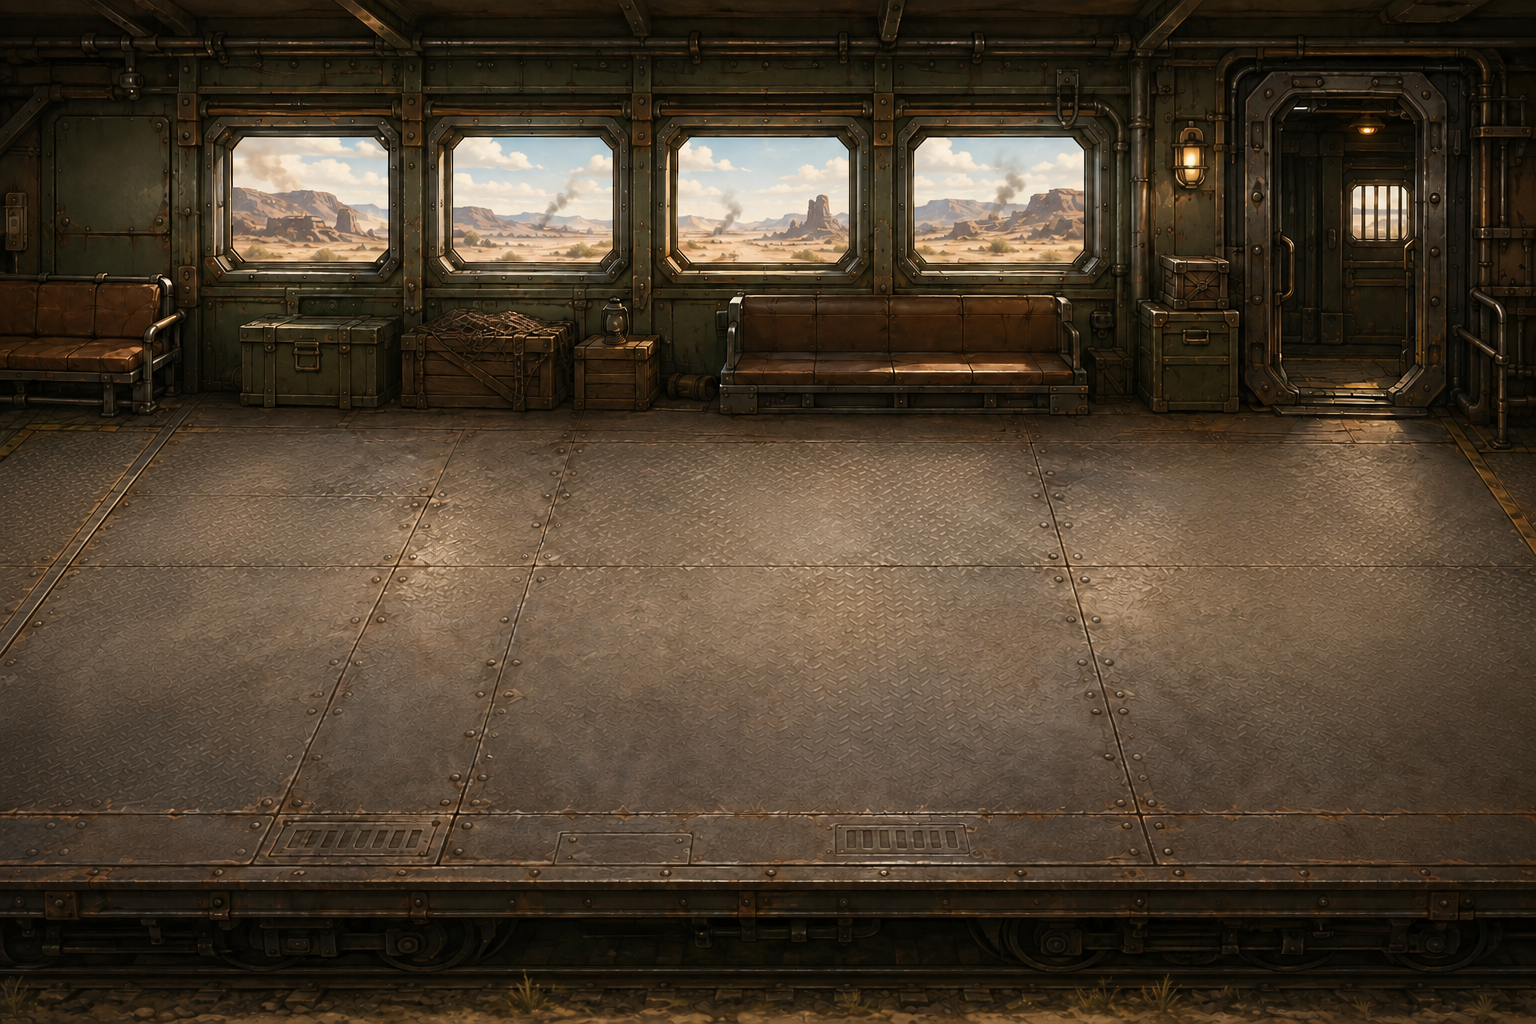
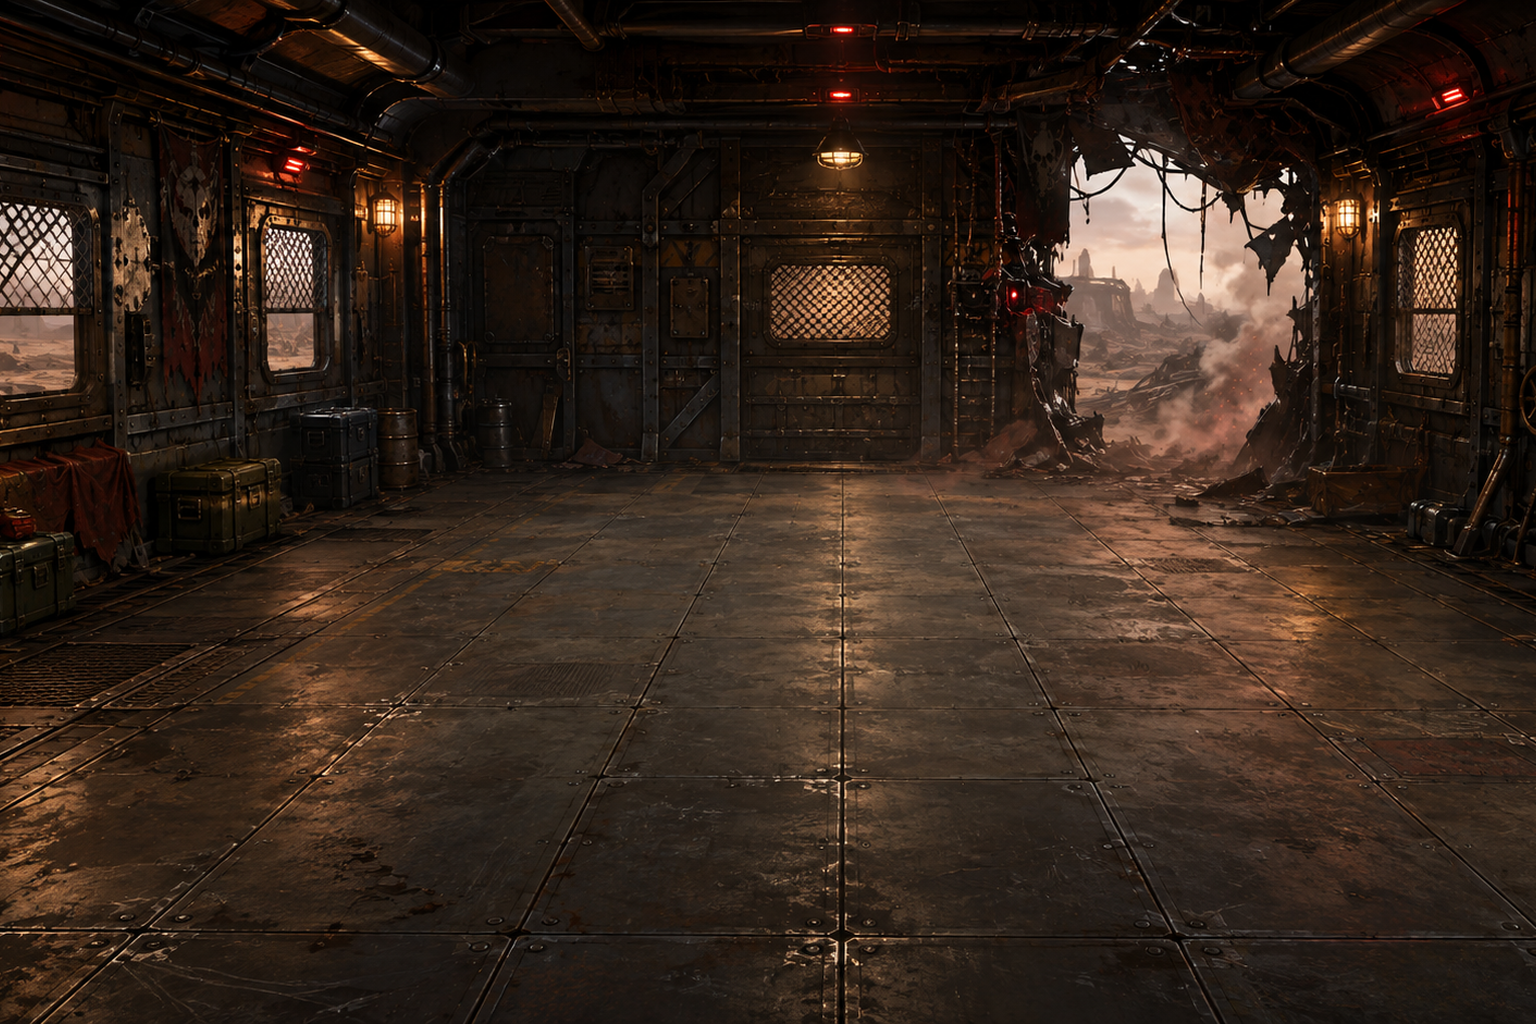
fix(unity): replace initial combat interior background

diff --git a/unity-project/Assets/_LASTRAIL/Tests/EditMode/LaunchScreenPrefabBindingTests.cs b/unity-project/Assets/_LASTRAIL/Tests/EditMode/LaunchScreenPrefabBindingTests.cs
@@ -1,6 +1,7 @@
 #if UNITY_5_3_OR_NEWER
 using System.IO;
 using System.Collections.Generic;
+using System.Security.Cryptography;
 using NUnit.Framework;
 using UnityEditor;
 using UnityEngine;
@@ -18,6 +19,7 @@ namespace LastRail.Tests.EditMode
     {
         private const string ScreenPrefabRoot = "Assets/_LASTRAIL/Prefabs/Screens/";
         private const string CommonSkinRoot = "Assets/_LASTRAIL/UI/Common/Skins";
[1 lines of base64/hex data omitted]
 
         [Test]
         public void LaunchScreenPrefabs_ExistForSevenPlayerFacingScreens()
@@ -242,6 +244,29 @@ namespace LastRail.Tests.EditMode
                 "playerSquadSlots",
                 "invadingEnemySlots",
                 "engagementZoneRoot");
+        }
+
+        [Test]
+        public void CombatHudInitialSquadInterior_DoesNotUseFloatingGroundBackground()
+        {
+            var assetPath = Path.Combine(
+                Directory.GetCurrentDirectory(),
+                "Assets",
+                "_LASTRAIL",
+                "UI",
+                "CombatResources",
+                "Interiors",
+                "combat_train_interior_initial_squad.png");
+
+            Assert.That(File.Exists(assetPath), Is.True, assetPath);
+            using var stream = File.OpenRead(assetPath);
+            using var sha256 = SHA256.Create();
+            var hash = System.BitConverter.ToString(sha256.ComputeHash(stream)).Replace("-", string.Empty);
+
+            Assert.That(
+                hash,
+                Is.Not.EqualTo(FloatingInitialSquadInteriorHash),
+                "Initial squad combat interior should use the grounded-floor background, not the old image that made the upper-left operator look airborne.");
         }
 
         private static void AssertCombatHudDoesNotExposeQaCopy(GameObject prefab)

diff --git a/unity-project/Assets/_LASTRAIL/UI/CombatResources/README.md b/unity-project/Assets/_LASTRAIL/UI/CombatResources/README.md
@@ -5,6 +5,7 @@ These enemy, boss, accent, VFX, and combat-interior files are project-generated 
 Source sheets:
 - `Assets/_LASTRAIL/UI/CombatResources/Sources/act1_enemy_boss_contact_sheet_generated.png`
 - `Assets/_LASTRAIL/UI/CombatResources/Sources/act1_combat_vfx_contact_sheet_generated.png`
+- `Assets/_LASTRAIL/UI/CombatResources/Sources/combat_train_interior_initial_squad_grounded_floor_source.png`
 
 Scope:
 - 6 normal enemy display resources.
@@ -19,6 +20,7 @@ Interior background note:
 - These interiors are composed for side-view / slight 3-quarter combat placement: a clear left/center-left operator deck, matching right-side enemy doorway/platform, shallow perspective, visible floor seams, and foot-contact baselines.
 - Do not add `_2` variants or duplicate generated temp assets to the project; replace these canonical paths when polishing Act 1 combat interiors.
 - The contact shadow is presentation-only and exists to ground combat sprites visually on these battle lanes.
+- `combat_train_interior_initial_squad.png` was replaced with a grounded-floor interior so the left squad cluster reads as standing on the same train-car floor plane.
 
 Usage:
 - Use the manifest at `Assets/_LASTRAIL/UI/Style/lastrail-combat-art-resources.json` for QA and resource readiness.
